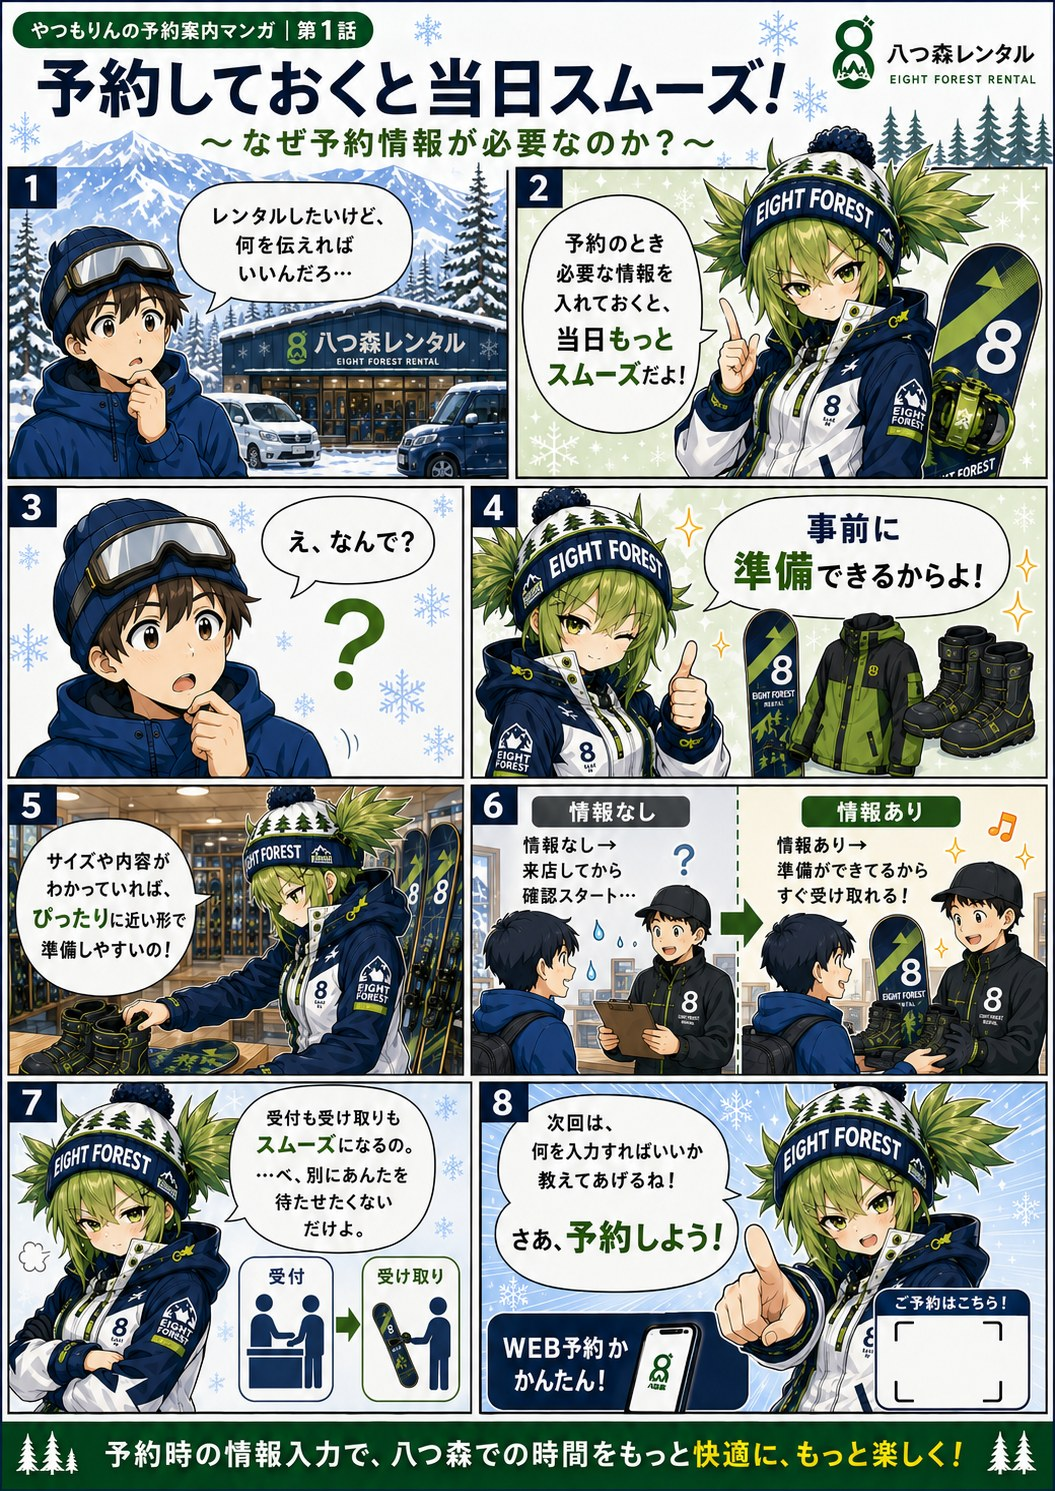
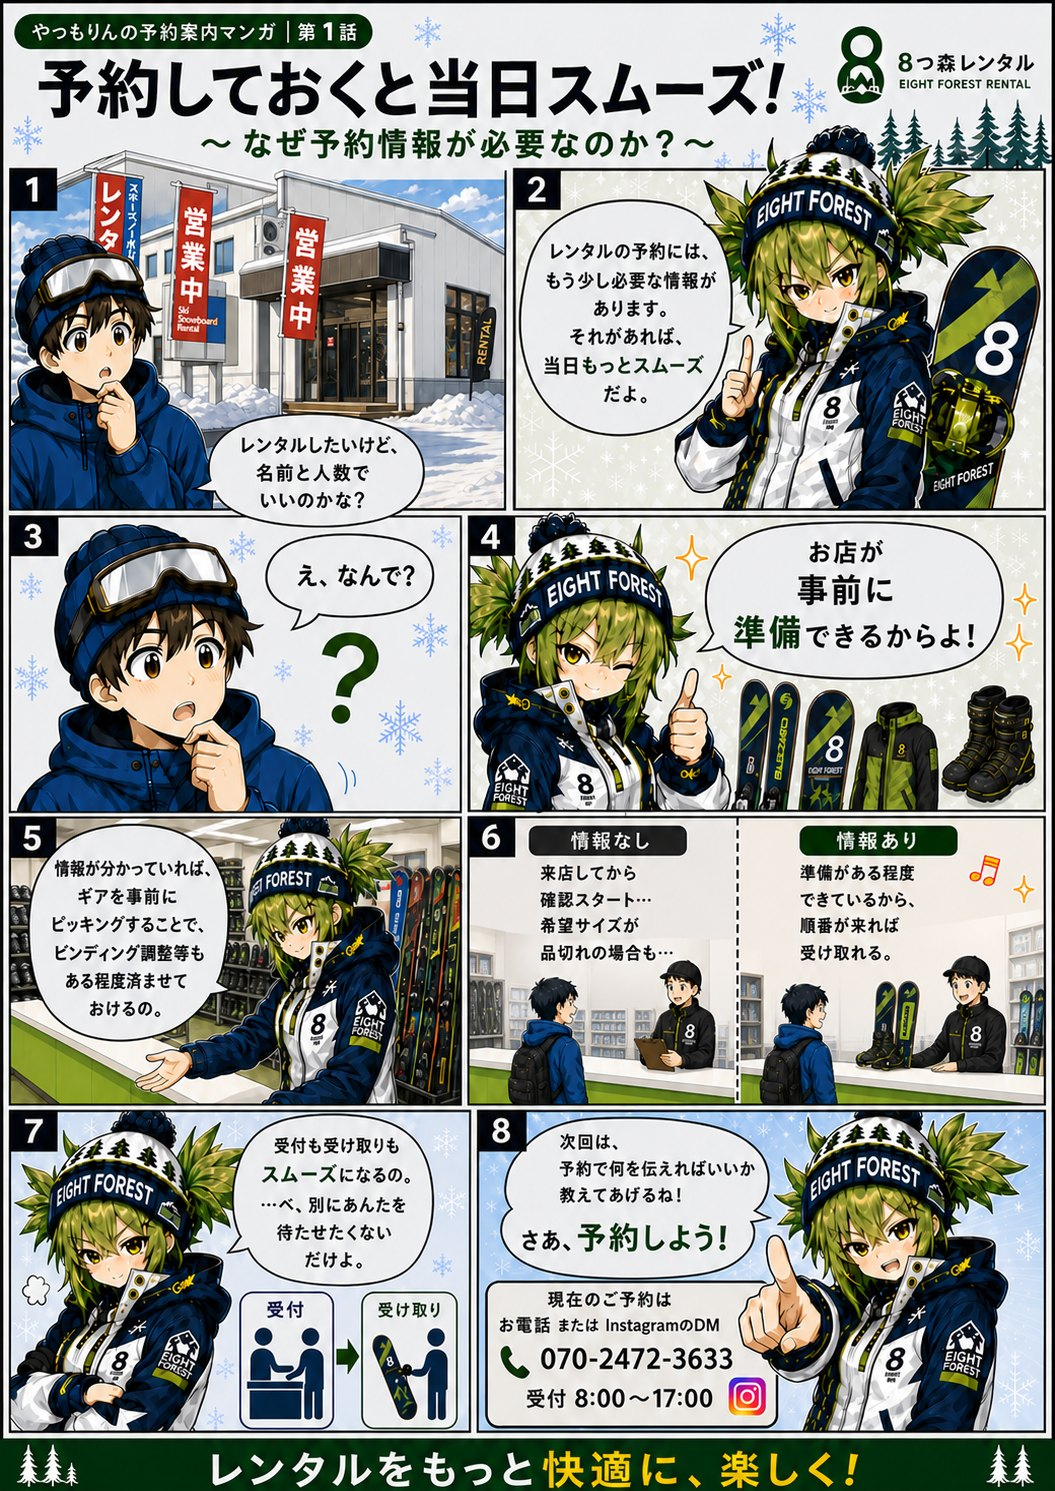
初心者ガイド：漫画を現行予約版の第1〜10話に差し替え＋第11話(ブーツの履き方)削除
- manga-1〜10.jpg を新デザイン(現行予約版)に差し替え、manga-11.jpg 削除。EPISODESから11話除去
- 画像更新のキャッシュ回避に beginner-guide/reserve のマンガ画像srcへ ?v=2
- beginner-guideを静的一本化（旧公開版=11話・ストレージ画像がデスクトップで上書きしていたのを解消）。PC/スマホとも新10話・overflow0・JSエラー0を実測
- reserveのマンガヘルプは1-5/7-10参照で11話不使用＝壊れリンクなし

diff --git a/pages/beginner-guide.html b/pages/beginner-guide.html
@@ -126,8 +126,7 @@
     { no:"第7話",  ttl:"スタンス",           cap:"第7話：スタンスって何？",                         img:"manga-7.jpg" },
     { no:"第8話",  ttl:"家族・グループ予約", cap:"第8話：家族・グループで予約するとき",             img:"manga-8.jpg" },
     { no:"第9話",  ttl:"服装・持ち物",       cap:"第9話：当日の服装・持ち物は？",                   img:"manga-9.jpg" },
-    { no:"第10話", ttl:"受け取りの流れ",     cap:"第10話：予約から受け取りまでの流れ",              img:"manga-10.jpg" },
-    { no:"第11話", ttl:"ブーツの履き方",     cap:"第11話：ブーツの履き方＆困ったときは",            img:"manga-11.jpg" }
+    { no:"第10話", ttl:"受け取りの流れ",     cap:"第10話：予約から受け取りまでの流れ",              img:"manga-10.jpg" }
   ];
   // 公開版ではSupabase保存版がページ中身を丸ごと差し替えるため、要素は毎回
   // 引き直し、イベントは document への委譲で付ける（差し替え後も操作が効き続ける）。
@@ -180,7 +179,7 @@
     // 高さ0を基準にしてしまい、大きくズレるため。その場合は位置調整をスキップ）
     var oldH = (d.img.complete && d.img.naturalWidth) ? d.img.getBoundingClientRect().height : null;
     d.img.onload = function(){ d.img.onload = null; if (oldH !== null) reflowAfter(d.img, oldH); };
-    d.img.src = "../assets/img/" + ep.img;
+    d.img.src = "../assets/img/" + ep.img + "?v=2";
     d.img.alt = "やつもりんの予約案内マンガ " + ep.no + " " + ep.ttl;
     d.sel.value = i;
     // 前へ／次へ
@@ -227,9 +226,6 @@
   show(0, false);
 })();
 </script>
-<script src="https://unpkg.com/@supabase/supabase-js@2"></script>
-<script src="../assets/js/supabaseClient.js?v=6"></script>
-<script>window.YATSUMORI_PAGE_KEY="beginner-guide";</script>
-<script src="../assets/js/pageRenderer.js?v=4"></script>
+<!-- このページは静的表示のみ（古い公開版の11話・旧画像を使わず、常にこの最新10話版を表示） -->
 </body>
 </html>

diff --git a/reserve.html b/reserve.html
@@ -422,7 +422,8 @@ function openManga(ep) {
   ensureMangaModal();
   document.getElementById("mm-title").textContent = d.t;
   const img = document.getElementById("mm-img");
-  if (img.getAttribute("src") !== d.img) img.src = d.img; // 開いたときだけ読み込む（フォーム表示を重くしない）
+  const mSrc = d.img + "?v=2"; // 画像更新のキャッシュ回避
+  if (img.getAttribute("src") !== mSrc) img.src = mSrc; // 開いたときだけ読み込む（フォーム表示を重くしない）
   document.getElementById("manga-modal").classList.add("open");
   document.body.style.overflow = "hidden";
 }
